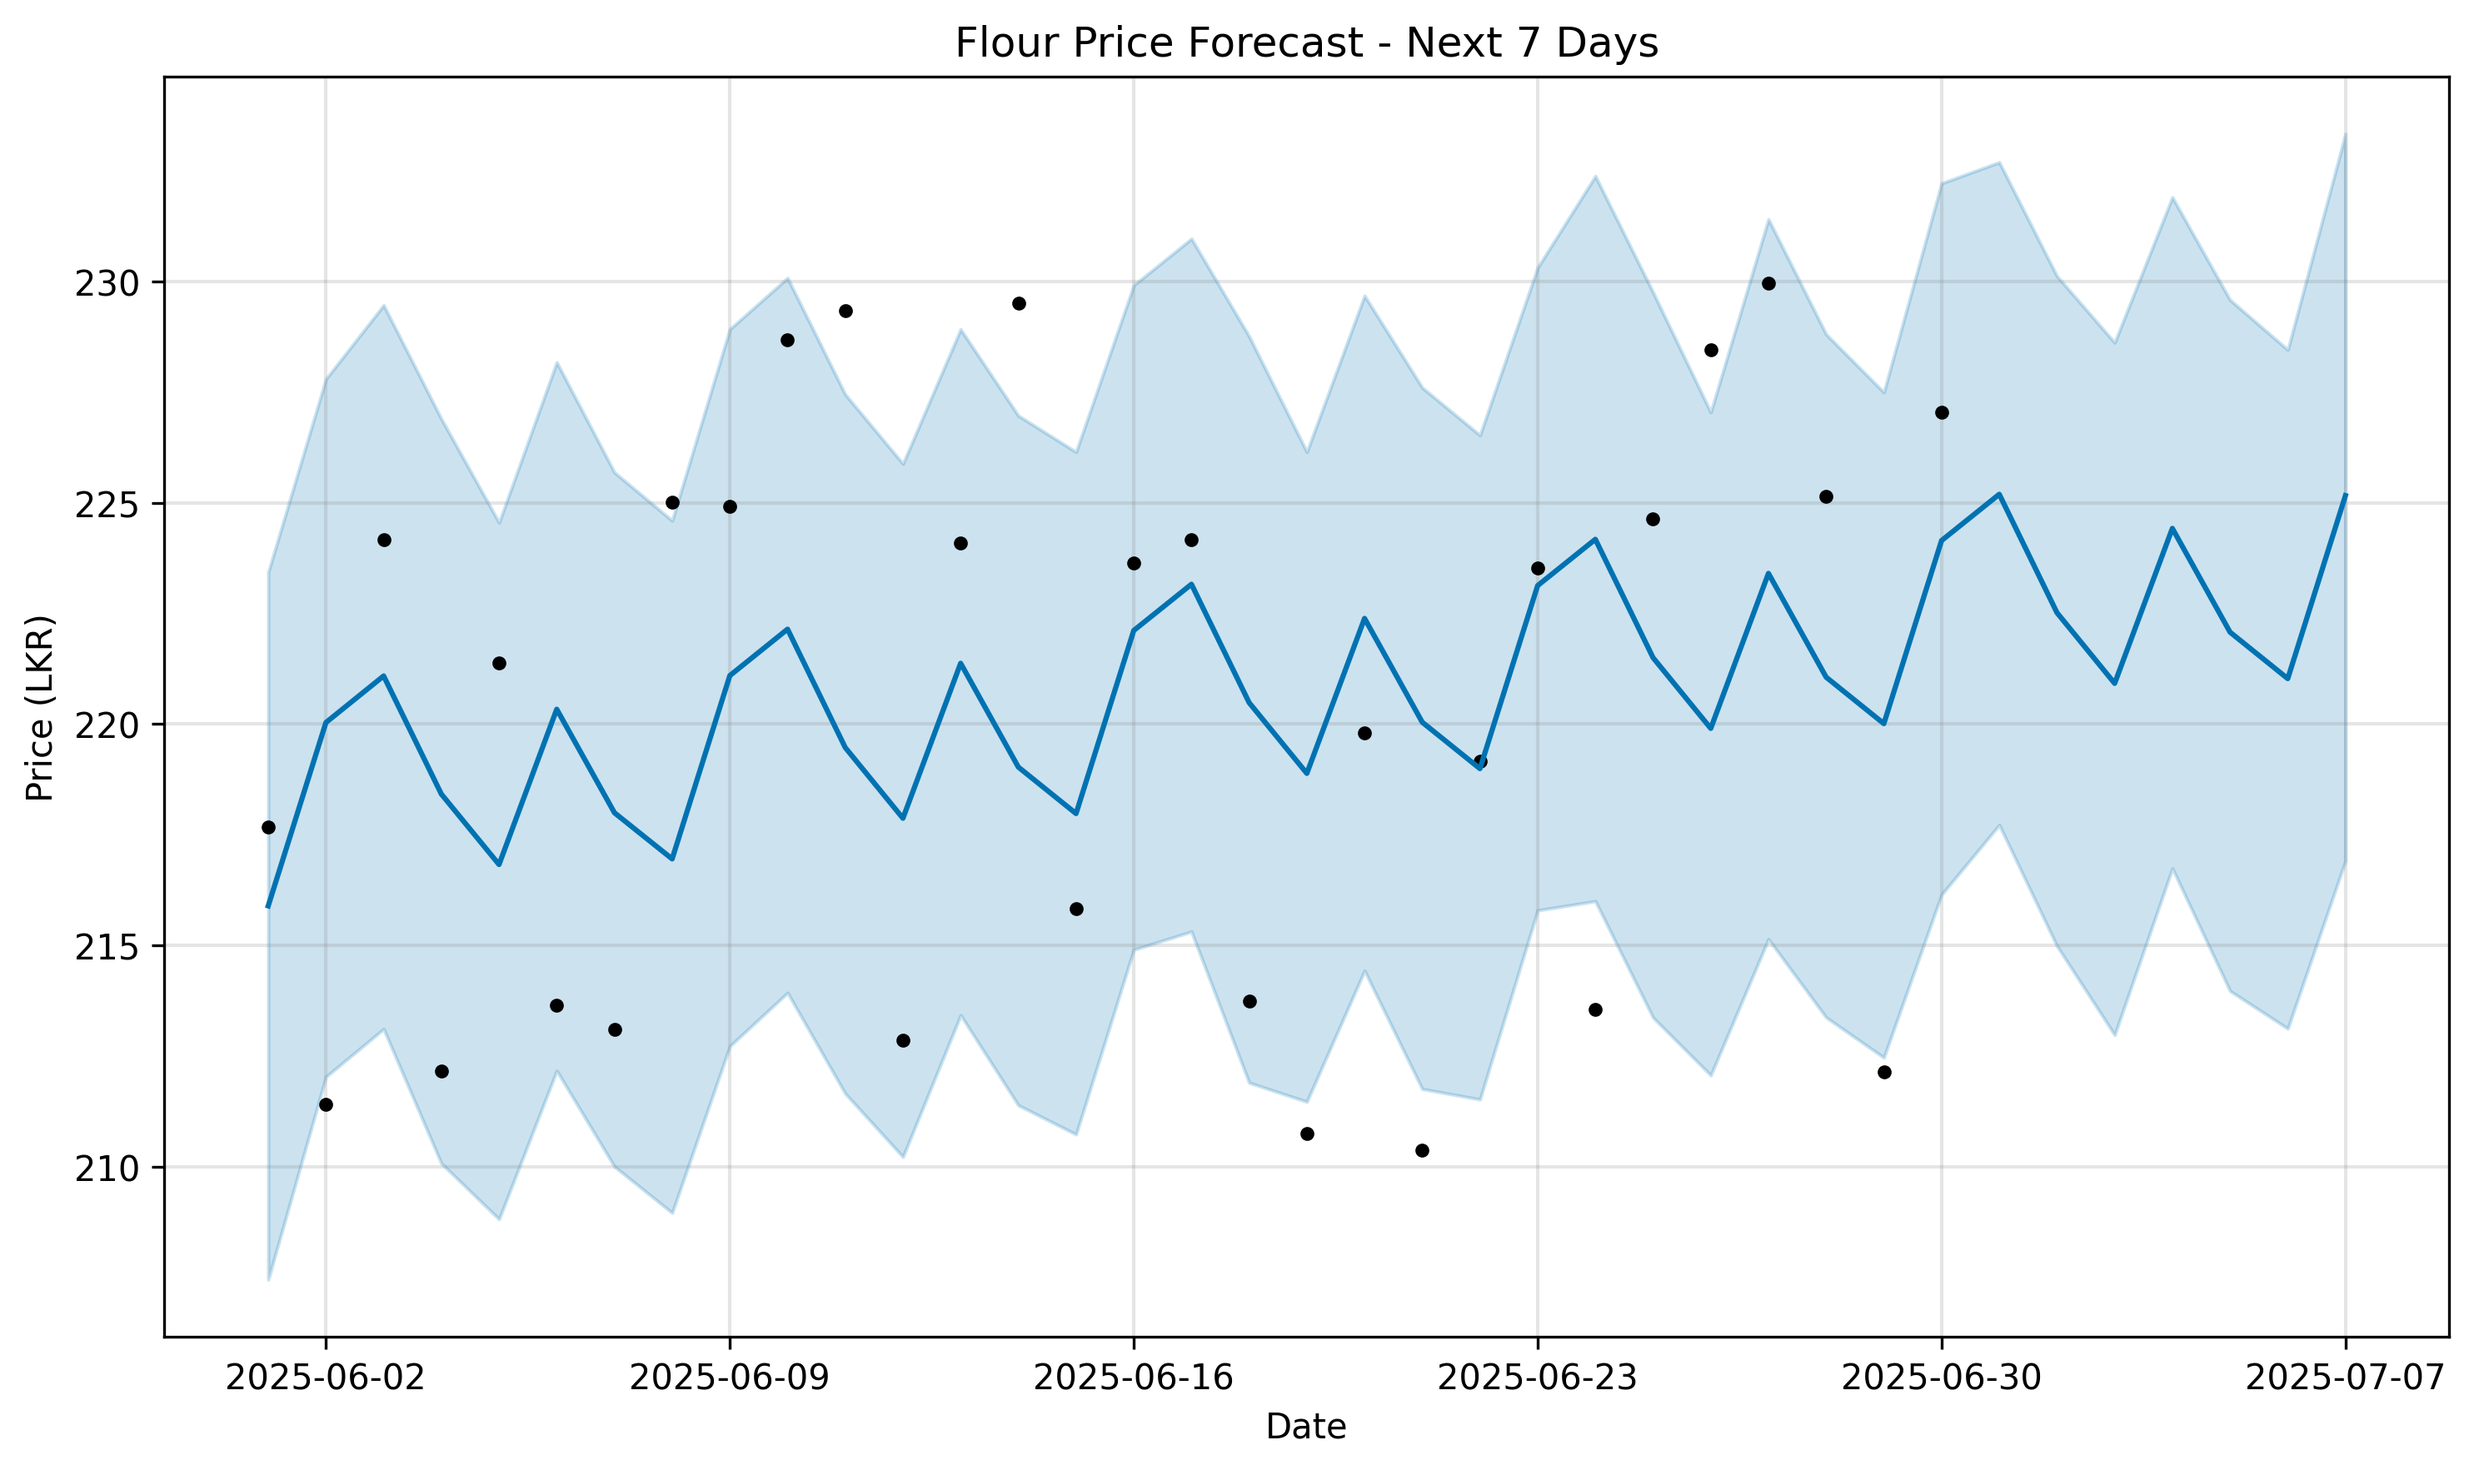
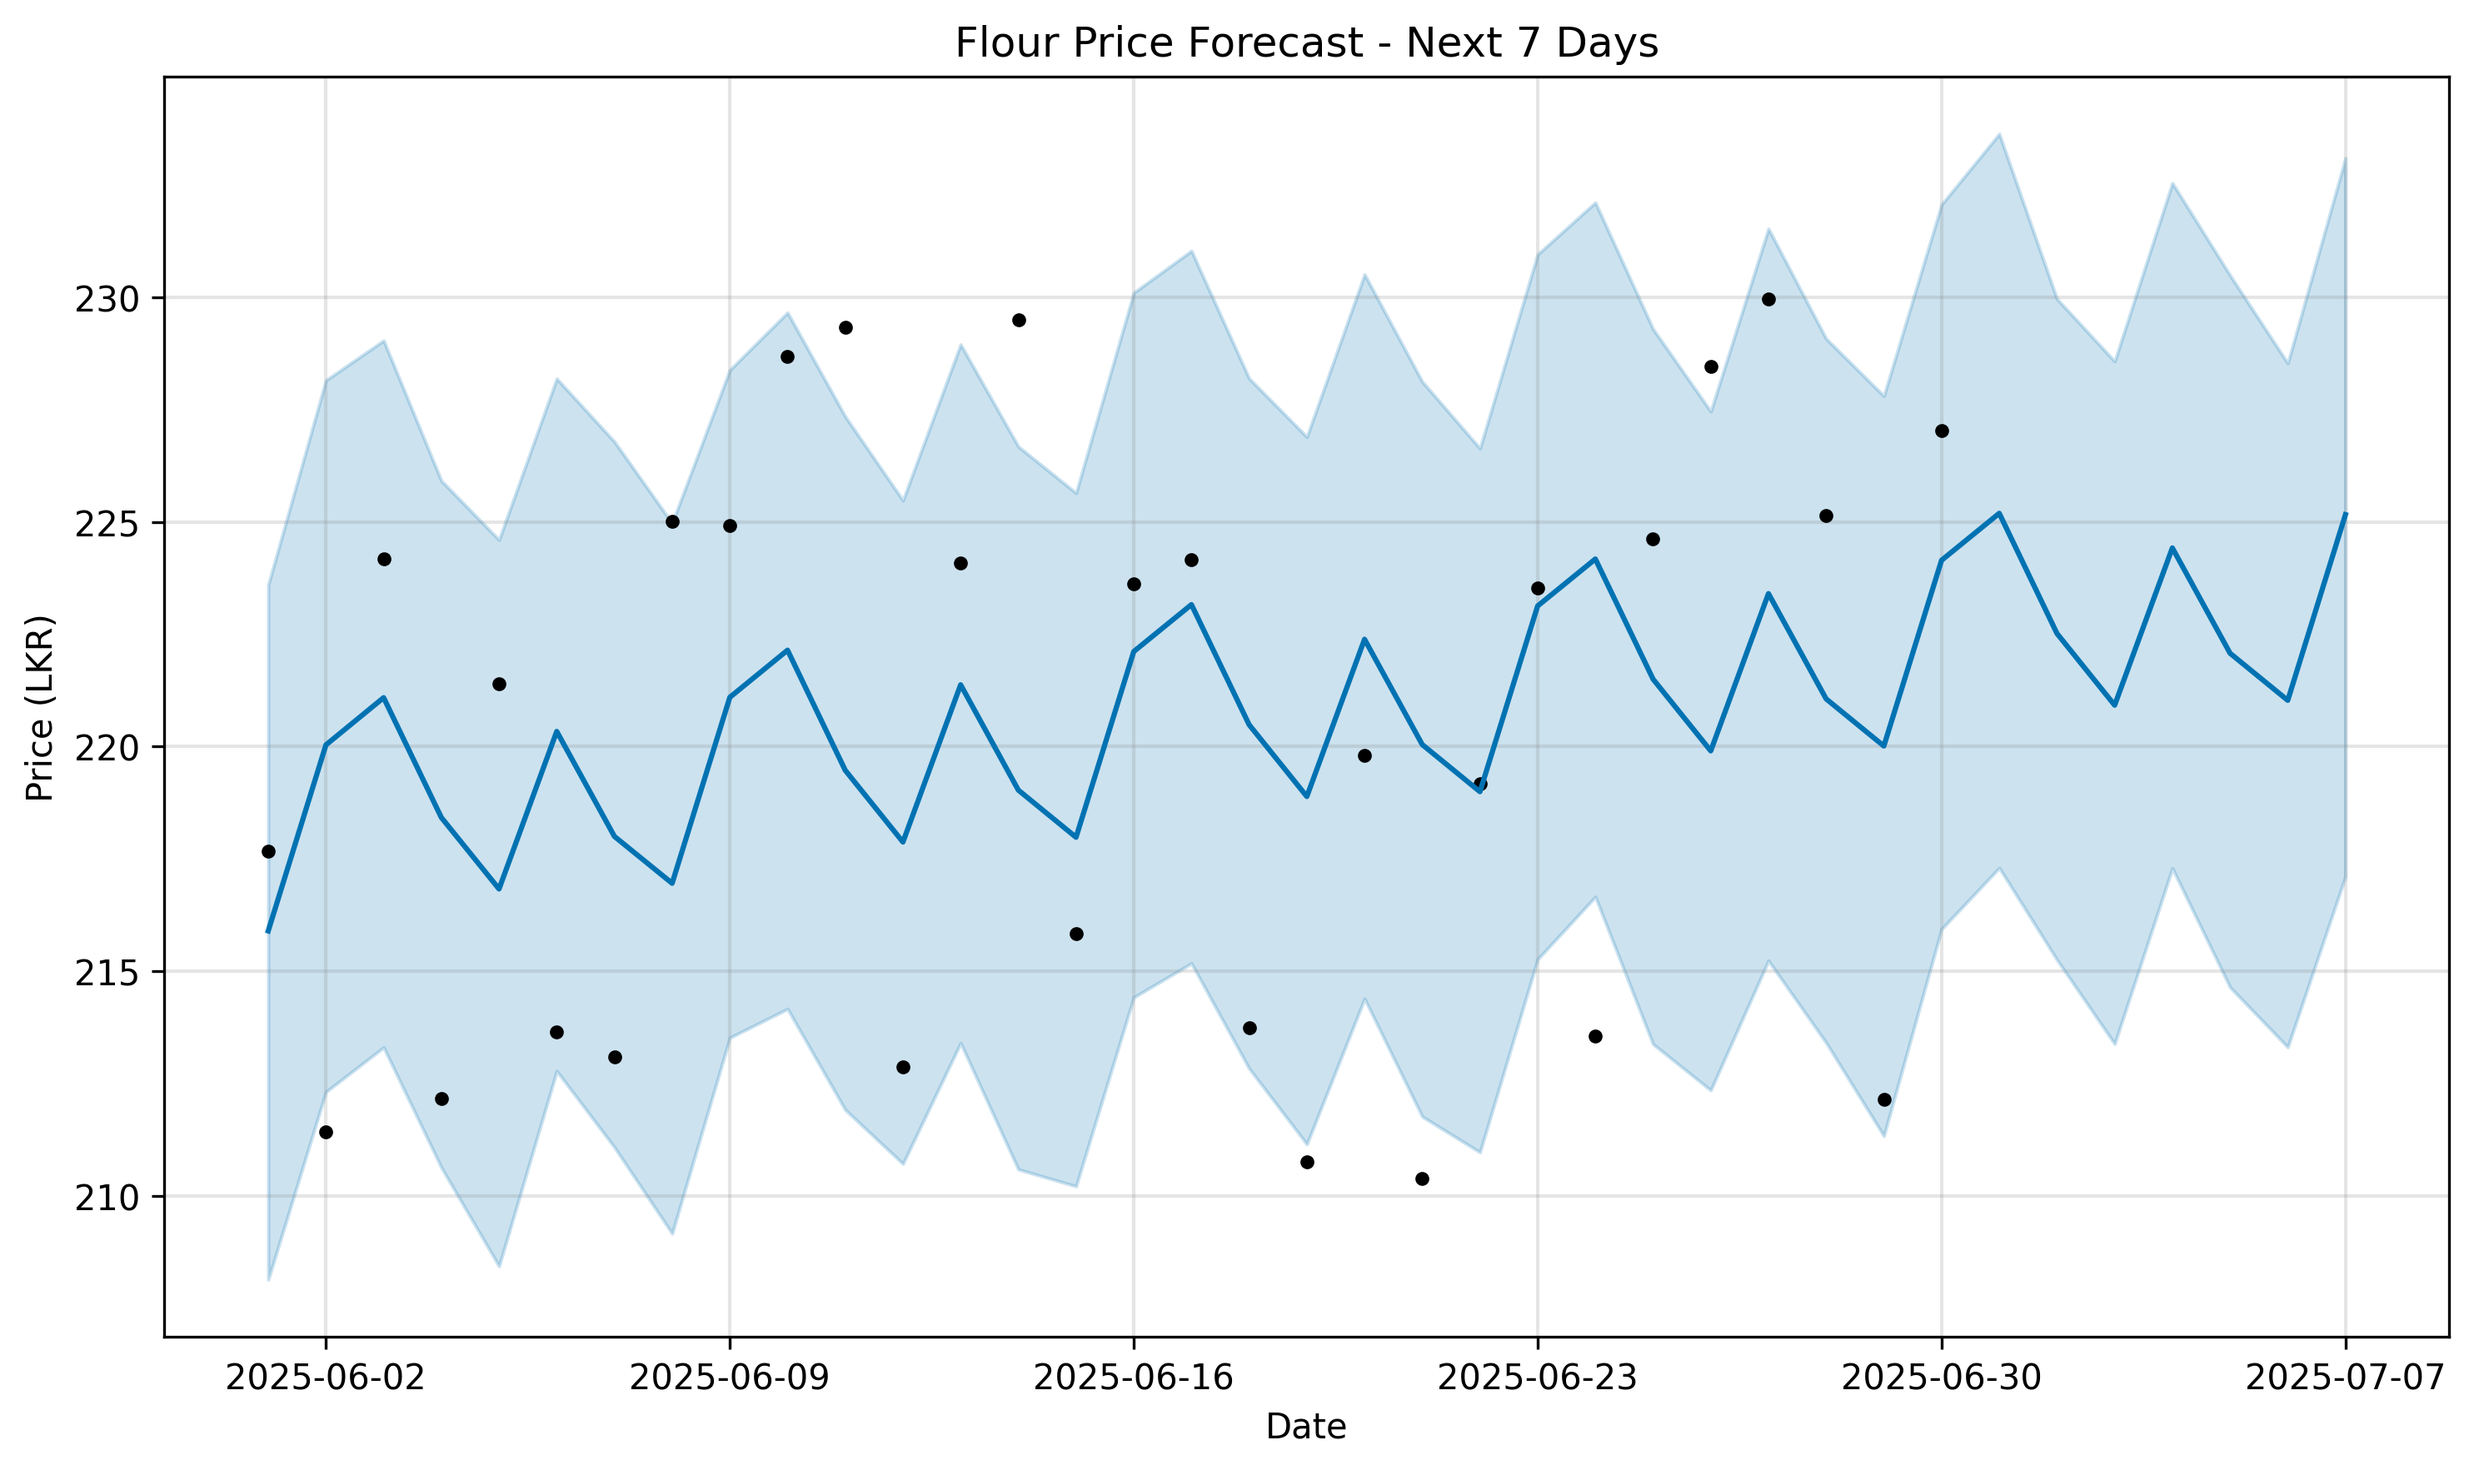
change the top header of the owner dashboard

diff --git a/components/SidebarNav.tsx b/components/SidebarNav.tsx
@@ -28,22 +28,24 @@ export default function SidebarNav({
     { name: "Financial Advisor", icon: Brain },
   ];
   return (
-    <div className="h-full flex flex-col bg-white shadow-md rounded-lg">
+    <div className="h-full flex flex-col bg-white shadow-md">
       {/* Logo Section */}
-      <div className="p-6 border-b border-orange-100">
-        <div className="flex items-center space-x-3">
-          <div className="w-12 h-12 bg-gradient-to-br from-orange-400 to-orange-600 rounded-lg flex items-center justify-center shadow-lg">
+      <div className="py-6 px-5 border-b border-orange-100">
+        <div className="flex flex-col items-center space-y-4">
+          <div className="w-16 h-16 bg-gradient-to-br from-orange-400 to-orange-600 rounded-lg flex items-center justify-center shadow-lg">
             <span className="text-white text-xl font-bold">🍰</span>
           </div>
-          <div>
-            <h1 className="text-xl font-bold text-gray-900">Cake Zone</h1>
-            <p className="text-sm text-gray-500 font-medium">Owner Dashboard</p>
+          <div className="text-center mt-2">
+            <h1 className="text-xl font-bold text-gray-900">Owner Dashboard</h1>
+            <p className="text-sm text-orange-500 font-medium mt-1">
+              {activeTab}
+            </p>
           </div>
         </div>
       </div>
 
       {/* Navigation */}
-      <nav className="flex-1 p-4 space-y-1.5 overflow-y-auto">
+      <nav className="flex-1 py-4 px-4 space-y-2.5 overflow-y-auto">
         {tabs.map((tab) => {
           const Icon = tab.icon;
           const isActive = activeTab === tab.name;
@@ -52,9 +54,9 @@ export default function SidebarNav({
             <button
               key={tab.name}
               onClick={() => setActiveTab(tab.name)}
-              className={`w-full flex items-center space-x-3 px-4 py-3 rounded-lg text-left transition-all duration-200 ${
+              className={`w-full flex items-center space-x-3 px-4 py-2.5 rounded-lg text-left transition-all duration-200 ${
                 isActive
-                  ? "bg-orange-500 text-white shadow-lg"
+                  ? "bg-orange-500 text-white shadow-sm"
                   : "text-gray-700 hover:bg-gray-100"
               }`}
             >

diff --git a/components/TopHeader.tsx b/components/TopHeader.tsx
@@ -2,24 +2,16 @@
 
 import { UserButton } from "@clerk/nextjs";
 
-interface TopHeaderProps {
-  activeTab: string;
-}
-
-export default function TopHeader({ activeTab }: TopHeaderProps) {
+export default function TopHeader() {
   return (
-    <div className="bg-white border-b px-6 py-4">
-      <div className="flex items-center justify-between">
-        {/* Left: Page Title */}
-        <div>
-          <h1 className="text-2xl font-bold text-gray-900">
-            Dashboard {activeTab}
-          </h1>
-        </div>{" "}
+    <div className="bg-white border-b px-5 py-3">
+      <div className="flex items-center justify-end h-14">
+        {/* Left side now empty - title moved to sidebar */}
         {/* Right: User Profile */}
         <div className="flex items-center">
-          {/* User Profile (Clerk UserButton) */}
-          <UserButton afterSignOutUrl="/" />
+          <div className="bg-orange-50 rounded-full p-0.5">
+            <UserButton afterSignOutUrl="/" />
+          </div>
         </div>
       </div>
     </div>

diff --git a/app/dashboards/Owner/page.tsx b/app/dashboards/Owner/page.tsx
@@ -127,7 +127,7 @@ export default function OwnerDashboard() {
 
       {/* Main Content */}
       <div className="flex-1 flex flex-col">
-        <TopHeader activeTab={activeTab} userType="Owner" />
+        <TopHeader />
         <main className="flex-1 p-6 overflow-auto">
           <ErrorBoundary
             FallbackComponent={ErrorFallback}
